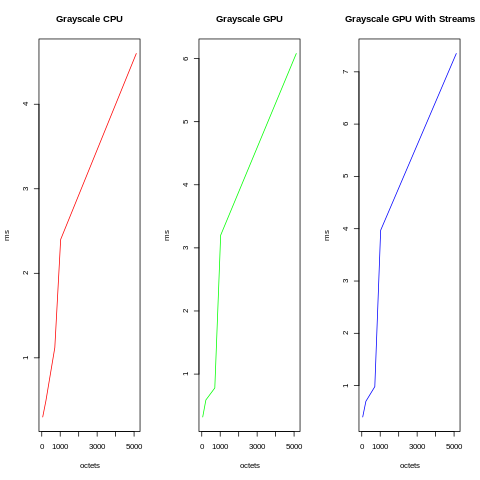
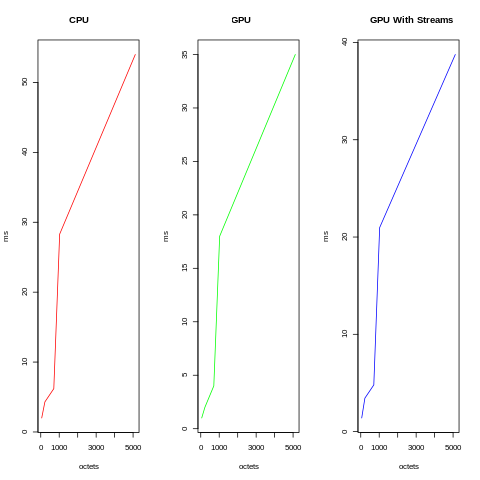
final commit

diff --git a/README.md b/README.md
@@ -1,1 +1,19 @@
-# GPGPU
+#Objectifs:
+- Application of different filters (Sobel, gray level, Canny, Prewitt ...) on images of size ranging from 1 MB to 4 MB.
+- Comparison of performance (in terms of execution time) between the different methods used as well as the time spent on a CPU.
+
+#Example: grayscale filter:
+
+#input image:
+![alt text](https://github.com/Nano2018/GPGPU/blob/main/Images/4v9mo.jpg)
+
+#output image:
+
+![alt text](https://github.com/Nano2018/GPGPU/blob/main/grayscale/out.jpg)
+
+#Comparison between the different methods
+
+![alt text](https://github.com/Nano2018/GPGPU/blob/main/grayscale.png)
+
+#Conclusion
+on the graph above, we see that the execution time is much more interesting on the GPU. 
